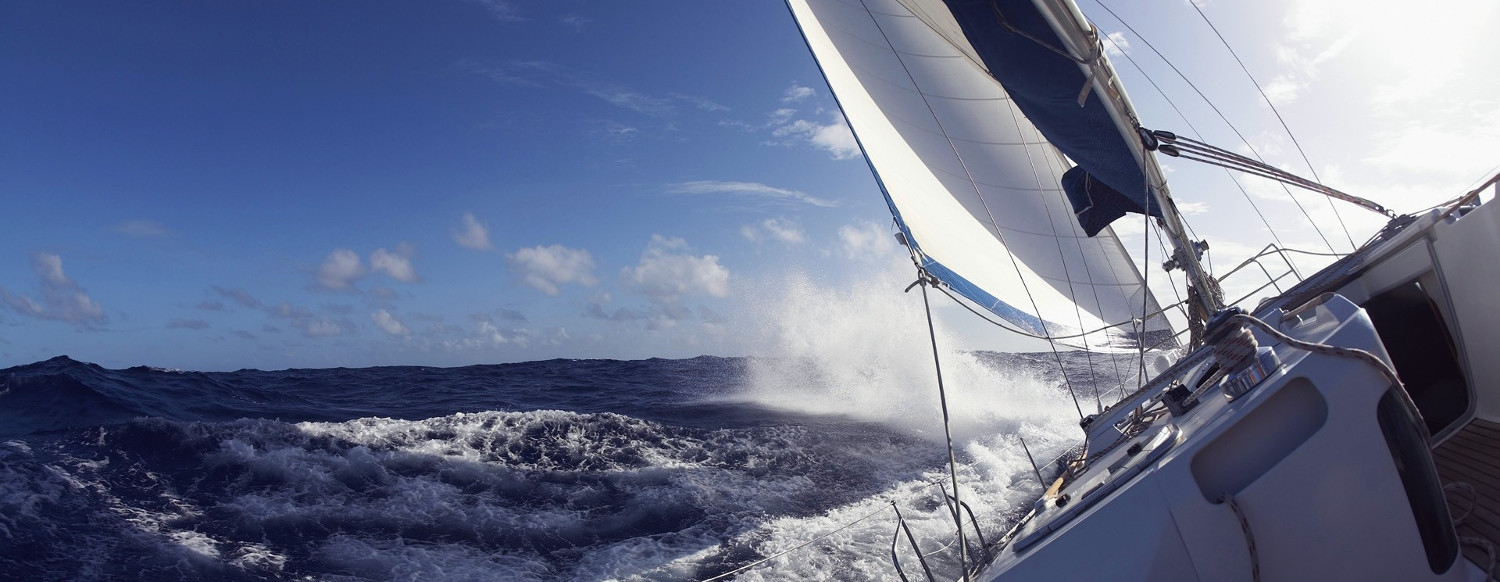
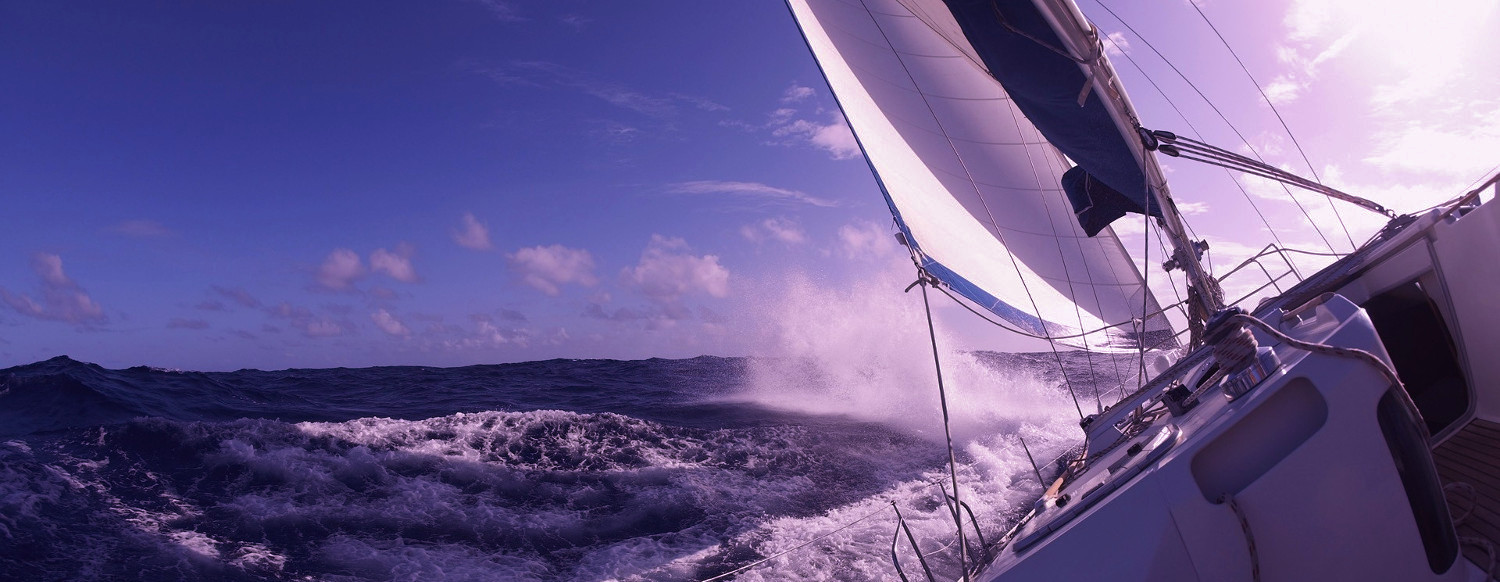
change images colors into purple

diff --git a/_includes/porque.html b/_includes/porque.html
@@ -80,7 +80,7 @@
 					<section class="accordion-inner panel-body">
 						<p>A Thinkopen Solutions Brasil disponibiliza um <a href="/servicos">ERP completo em SaaS</a>!<br />
 						Esta solução é indicada principalmente para pequenas e médias empresas (80% do tecido empresarial), pois permite que estas tenham acesso a um software de gestão completo e seguro sem que fazer um investimento grande em hardware e infraestrutura.<br />
-						A inovação da nossa abordagem é a de permitir que um parceiro use sua imagem, seus processos, particulares personalizando o sistema a si e seus clientes, ou à sua empresa ou oprganização.</p>
+						A nossa abordagem é que difere das restantes empresas que prestam este serviço, que é a de permitir que um parceiro use sua imagem, seus processos, particulares personalizando o sistema a si e seus clientes, ou sendo um cliente final à sua empresa ou organização.</p>
 					</section>
 				</div>
 				<div class="accordion-item">
